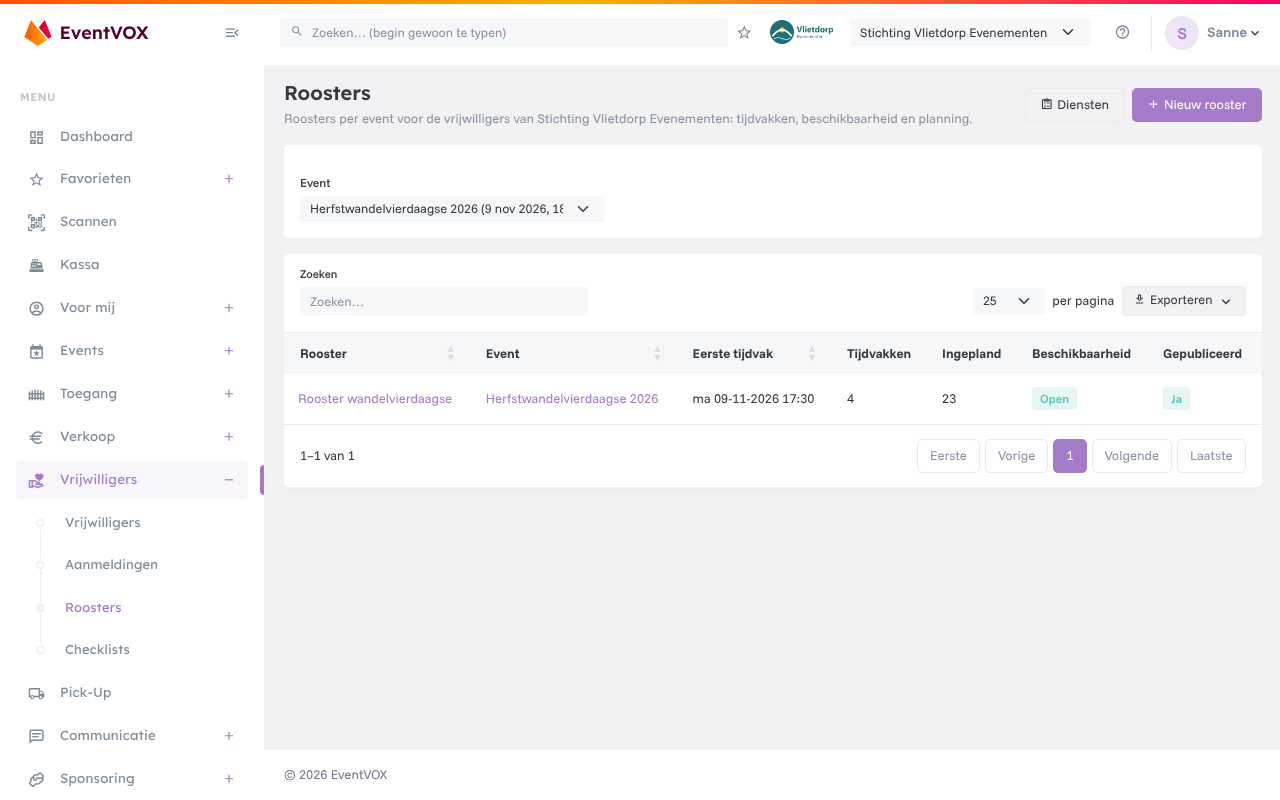
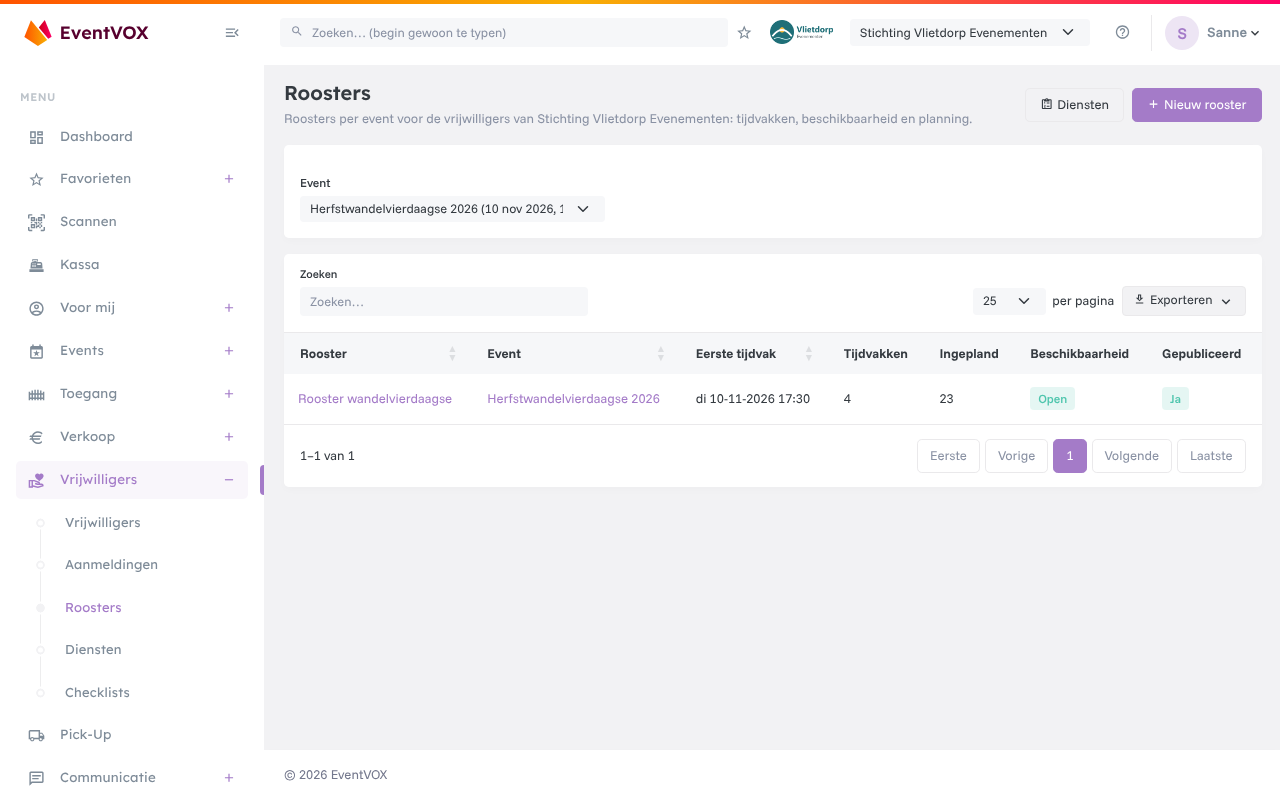
Roosters, Pick-Up, Rapportages and Aan de slag: copying a roster, who can still come, Bezetting in Excel/PDF, Pick-Up deze week; new and renewed screenshots
seed.js: tasks with a standard number per time slot and two service groups. capture.js: the roster form, copying, the
dienstenplanner, the Pick-Up round on a phone (admin and volunteer), the Pick-Up statistics and the dashboard card.

Claude-Session: https://claude.ai/code/session_01XbTwMg7wxJwi4JQw7oTKWb

diff --git a/tools/screenshots/capture.js b/tools/screenshots/capture.js
@@ -41,9 +41,15 @@ const cardWith = (text) => async (page) => page.evaluate((t) => {
     const card = [...document.querySelectorAll('.card')].find((c) => c.querySelector('.card-header, .card-title, h2, h3')?.textContent.includes(t));
     if (card) card.setAttribute('data-shot', '1');
 }, text);
+// A card cropped to its first n list items (a phone screenshot longer than the screen would show the sticky top bar)
+const firstItems = (title, n) => async (page) => {
+    await cardWith(title)(page);
+    await page.evaluate((k) => document.querySelectorAll('[data-shot] .list-group > li').forEach((li, i) => { if (i >= k) li.remove(); }), n);
+};
 const SHOTS = [
     // Aan de slag
     { name: 'dashboard', url: '', viewport: { width: 1280, height: 1460 } },
+    { name: 'dashboard-pickup', url: '', element: '[data-shot]', before: cardWith('Pick-Up deze week') },
     // A favourite page: the star is yellow and the group Favorieten opens by itself
     { name: 'favorites', url: 'checkpoints' },
     { name: 'profile', url: 'profile' },
@@ -102,12 +108,34 @@ const SHOTS = [
     { name: 'schedule-tasks', url: 'schedule-tasks' },
     { name: 'schedules', url: 'schedules' },
     { name: 'schedule', url: () => `schedule?uuid=${D.schedules.walk}` },
+    // The roster form: services as a table with search, groups, take over from another roster, needed per time slot
+    { name: 'schedule-form', url: () => `schedule?uuid=${D.schedules.walk}`, element: '.modal.show .modal-content', before: async (p) => {
+        await click(p, '[data-edit]');
+        await p.waitForSelector('.modal.show [data-task-fieldset]');
+        await wait(600);
+    } },
+    // A whole roster copied to next year's event: the shift in days and where the first time slot lands
+    { name: 'schedule-copy', url: () => `schedule?uuid=${D.schedules.walk}`, element: '.modal.show .modal-content', before: async (p) => {
+        await click(p, '[data-copy]');
+        await p.waitForSelector('.modal.show #cp-event');
+        await p.select('.modal.show #cp-event', D.events.summer);
+        await wait(600);
+    } },
+    // The dienstenplanner with a time slot chosen: who can still come first
+    { name: 'schedule-planner', url: () => `schedule?uuid=${D.schedules.walk}&mode=plan&view=tasks`, viewport: { width: 1280, height: 900 }, before: async (p) => {
+        await click(p, '.schedule-planner .sp-cell');
+        await p.waitForSelector('[data-planner-list] [data-assign]');
+        await wait(400);
+    } },
     { name: 'checklists', url: 'checklists' },
     { name: 'checklist', url: () => `checklist?uuid=${D.checklist}` },
     { name: 'survey', url: () => `survey?uuid=${D.survey}` },
     // Pick-Up
     { name: 'pickups', url: 'pickups' },
     { name: 'pickup', url: () => `pickup?uuid=${D.slots.pickup[0]}`, before: async () => wait(2500) },
+    // The same round on a phone: the addresses as cards with big status buttons
+    { name: 'pickup-phone', url: () => `pickup?uuid=${D.slots.pickup[0]}`, viewport: { width: 390, height: 844 }, element: '[data-shot]', before: firstItems('Adressen', 3) },
+    { name: 'report-pickups', url: 'reports-pickups', viewport: { width: 1280, height: 1100 } },
     // Verkoop en webshop
     { name: 'webshop', url: 'webshop' },
     { name: 'products', url: 'products' },
@@ -143,6 +171,8 @@ const SHOTS = [
     } },
     // Voor vrijwilligers (Julia)
     { name: 'vrijw-my-schedule', who: 'julia', url: 'my-schedule' },
+    // Julia's Pick-Up round on her phone: the address cards
+    { name: 'vrijw-pickup', who: 'julia', url: () => `my-schedule?shift=${D.slots.pickup[0]}`, viewport: { width: 390, height: 844 }, element: '[data-shot]', before: firstItems('Adressen', 3) },
     { name: 'vrijw-availability', who: 'julia', url: 'availability' },
     // De webshop (Lucas, een koper)
     { name: 'shop-overview', who: 'lucas', url: '' },

diff --git a/tools/screenshots/seed.js b/tools/screenshots/seed.js
@@ -218,16 +218,21 @@ async function scanning(t) {
 
 async function volunteersWork(t) {
     // Tasks ("diensten") and the walk's roster with its four evenings
-    const task = async (name, description) => uuidOf(await api('POST', '/schedules/tasks', { token: t, body: { name, description } }));
+    // With the standard number of people per time slot (taken over when linked to a roster)
+    const task = async (name, description, needed = null) => uuidOf(await api('POST', '/schedules/tasks', { token: t, body: { name, description, default_needed: needed } }));
     state.tasks = {
-        ehbo: await task('EHBO', 'EHBO-post bij de start, met de EHBO-terminal.'),
-        desk: await task('Inschrijftafel', 'Polsbandjes scannen en vragen beantwoorden bij de start.'),
-        post: await task('Stempelpost', 'Post Molenweg: stempelen en water uitdelen.'),
-        traffic: await task('Verkeersregelaar', 'Oversteekplaatsen begeleiden (hesje en bordje bij de inschrijftafel).'),
-        build: await task('Opbouw', 'Kramen en verlichting opbouwen op het Kerkplein.'),
-        bar: await task('Glühweinkraam', 'Glühwein en warme chocolademelk schenken.'),
-        pickup: await task('Ophalen', 'Met de bus spullen ophalen bij de aangemelde adressen.'),
+        ehbo: await task('EHBO', 'EHBO-post bij de start, met de EHBO-terminal.', 1),
+        desk: await task('Inschrijftafel', 'Polsbandjes scannen en vragen beantwoorden bij de start.', 2),
+        post: await task('Stempelpost', 'Post Molenweg: stempelen en water uitdelen.', 2),
+        traffic: await task('Verkeersregelaar', 'Oversteekplaatsen begeleiden (hesje en bordje bij de inschrijftafel).', 3),
+        build: await task('Opbouw', 'Kramen en verlichting opbouwen op het Kerkplein.', 4),
+        bar: await task('Glühweinkraam', 'Glühwein en warme chocolademelk schenken.', 2),
+        pickup: await task('Ophalen', 'Met de bus spullen ophalen bij de aangemelde adressen.', 2),
     };
+    // Service groups: the standard sets of the two kinds of events
+    const group = async (name, tasks) => api('POST', '/schedules/task-groups', { token: t, body: { name, task_uuids: tasks } });
+    await group('Wandelvierdaagse', [state.tasks.ehbo, state.tasks.desk, state.tasks.post, state.tasks.traffic]);
+    await group('Kerstmarkt', [state.tasks.build, state.tasks.bar, state.tasks.pickup]);
     const schedule = async (event, name, tasks) => {
         const id = uuidOf(await api('POST', '/schedules', { token: t, body: { event_uuid: event, name, availability_open: true, published: true } }));
         await api('PUT', `/schedules/${id}/tasks`, { token: t, body: { task_uuids: tasks } });

diff --git a/roosters.md b/roosters.md
@@ -72,7 +72,20 @@ nog losse diensten aan- of uitzetten. Een groep later wijzigen verandert rooster
    standaardaantal van de dienst er al in (of het aantal uit het rooster dat je overneemt); pas het zo nodig aan. Leeg
    laten mag; de planner telt dan alleen.
 
+![Rooster bewerken: de diensten met hun aantal per tijdvak]({{ '/assets/images/schedule-form.png' | relative_url }})
+
 ![Roosters]({{ '/assets/images/schedules.png' | relative_url }})
+
+### Een heel rooster kopiëren
+
+Heb je elk jaar hetzelfde event? Open het rooster van vorig jaar en klik op **Kopiëren**. Kies het event van dit jaar
+en eventueel een andere naam. De tijdvakken schuiven vanzelf op van de ene startdatum naar de andere; het aantal dagen
+staat ingevuld en kun je aanpassen. Daaronder zie je waar het eerste tijdvak komt.
+
+De diensten gaan mee, met hun aantal per tijdvak. De beschikbaarheid en de planning gaan niet mee, en het nieuwe
+rooster is nog niet gepubliceerd: zet **Beschikbaarheid doorgeven open** aan als je zover bent.
+
+![Rooster kopiëren]({{ '/assets/images/schedule-copy.png' | relative_url }})
 
 ## Inplannen
 
@@ -101,14 +114,20 @@ Handige hulpmiddelen:
 - **Bezetting**: onder de tijden staat per tijdvak hoeveel mensen er ingepland zijn van het aantal dat nodig is
   (alleen de diensten met een aantal), groen als het genoeg is en rood als er nog mensen te weinig zijn. Wijs een vak
   aan om het per dienst te zien. In de **Dienstenplanner** staat het per tijdvak als label, bijvoorbeeld *Bar 2/4*.
+- **Wie kan nog?** Klik op een vak van de Bezetting (bijvoorbeeld een rood *1/2*): je ziet dan alleen wie in dat
+  tijdvak *Kan* of *Misschien* zei en daar nog niet is ingepland, en die kolom licht op. Nog een klik, of **Iedereen
+  tonen**, zet het terug. Met de schakelaar **Alleen wie nog kan** zie je iedereen die nog ergens in te zetten is.
 - Het kaartje naast een naam toont leeftijd, VOG-status en of iemand dit jaar meehelpt. Geel = er is een VOG nodig.
 - Vrijwilligers jonger dan de VOG-leeftijd staan in een eigen blok, onder een gele regel *Jonger dan …*.
 - Filters: *Alleen met beschikbaarheid of dienst* (standaard aan), *Helpt dit jaar* en zoeken op naam.
 - **Dienstenplanner**: een andere weergave, per tijdvak wie met welke dienst is ingepland. Klik een tijdvak, kies links
-  de dienst en klik daaronder een vrijwilliger. Wie *Kan* of *Misschien* zei, staat bovenaan. Een dag en tijd zonder
-  tijdvak is gearceerd met *Geen tijdvak*.
+  de dienst en klik daaronder een vrijwilliger. Bovenaan staat wie *Kan* of *Misschien* zei en nog vrij is; wie al in
+  dat tijdvak zit, staat apart. Een dag en tijd zonder tijdvak is gearceerd met *Geen tijdvak*.
+
+  ![Dienstenplanner]({{ '/assets/images/schedule-planner.png' | relative_url }})
 - **Excel** en **PDF**: download het overzicht zoals het gefilterd is, met dezelfde kleuren en de gele regel
-  *Jonger dan …*. De PDF is liggend A4; passen niet alle tijdvakken, dan staan de volgende op de volgende pagina.
+  *Jonger dan …*. Onderaan staat de **Bezetting**: per tijdvak hoeveel er zijn ingepland van het aantal dat nodig is,
+  in totaal en per dienst (in de PDF groen of rood). De PDF is liggend A4; passen niet alle tijdvakken, dan staan de volgende op de volgende pagina.
 
 ## Meldingen
 

diff --git a/pick-up.md b/pick-up.md
@@ -75,6 +75,8 @@ Open een ronde vanuit de lijst.
 - **Adressen**: per adres de gegevens en foto's. Je kunt een adres bewerken, de status wijzigen, foto's toevoegen of
   het adres verplaatsen naar een **andere datum** (een andere ronde). Op een telefoon is elk adres een kaartje, zoals
   vrijwilligers het zien: met **Route**, **Bellen** en grote knoppen voor de status.
+
+  ![Een Pick-Up ronde op de telefoon]({{ '/assets/images/pickup-phone.png' | relative_url }})
 - **Adres toevoegen**: zelf een adres invoeren, bijvoorbeeld na een telefoontje. Het maximum geldt dan niet.
 - **Routelijst printen**: een compacte lijst om mee te nemen.
 
@@ -91,6 +93,8 @@ daaronder per adres een kaartje, gemaakt voor de telefoon:
 Een gekleurde streep links laat de status zien. Boven de lijst staat hoeveel adressen al zijn afgehandeld en hoeveel er
 nog te gaan zijn. Per ongeluk op de verkeerde knop getikt? Tik op een andere uitkomst, of op **Ongedaan maken** om het
 adres weer op ingepland te zetten.
+
+![De adressen op de telefoon van een vrijwilliger]({{ '/assets/images/vrijw-pickup.png' | relative_url }})
 
 Een afgehandeld adres verdwijnt uit de lijst, zodat alleen overblijft wat nog moet. Met **Ook afgehandelde tonen** zie
 je alles. De status is meteen zichtbaar voor de rest van de groep en voor de organisatie.

diff --git a/aan-de-slag.md b/aan-de-slag.md
@@ -55,8 +55,12 @@ Het dashboard is je startpagina. Je ziet er:
 - **tegels met wat aandacht nodig heeft** (zie hieronder);
 - **Scans per uur vandaag**: per checkpoint een staafje per uur, met het drukste uur (zodra er vandaag gescand is, of
   als er een event bezig is);
-- de **verkoop** van de komende events per dag, de **volgende Pick-Up ronde**, de **jubilarissen** van dit jaar en het
-  aantal **nieuwe kopers** van de afgelopen week;
+- de **verkoop** van de komende events per dag, de **jubilarissen** van dit jaar en het aantal **nieuwe kopers** van de
+  afgelopen week;
+- **Pick-Up deze week**: de rondes van maandag tot en met zondag, per ronde hoeveel adressen al zijn afgehandeld en
+  hoeveel vrijwilligers er meegaan, met bovenaan het totaal. Is er deze week geen ronde, dan zie je de volgende.
+
+  ![Pick-Up deze week]({{ '/assets/images/dashboard-pickup.png' | relative_url }})
 - de **komende events**, met het aantal verkochte tickets;
 - als je vrijwilliger bent: je eerstvolgende **diensten** en de events waarvoor je je beschikbaarheid nog kunt
   doorgeven;

diff --git a/rapportages.md b/rapportages.md
@@ -124,3 +124,5 @@ op de pagina Pick-Up. Kies een **jaar** (of *Alle jaren*) en eventueel één **e
 - **Vrijwilligers met de meeste rondes**.
 
 Elke tabel kun je als Excel downloaden.
+
+![Pick-Up statistieken]({{ '/assets/images/report-pickups.png' | relative_url }})
